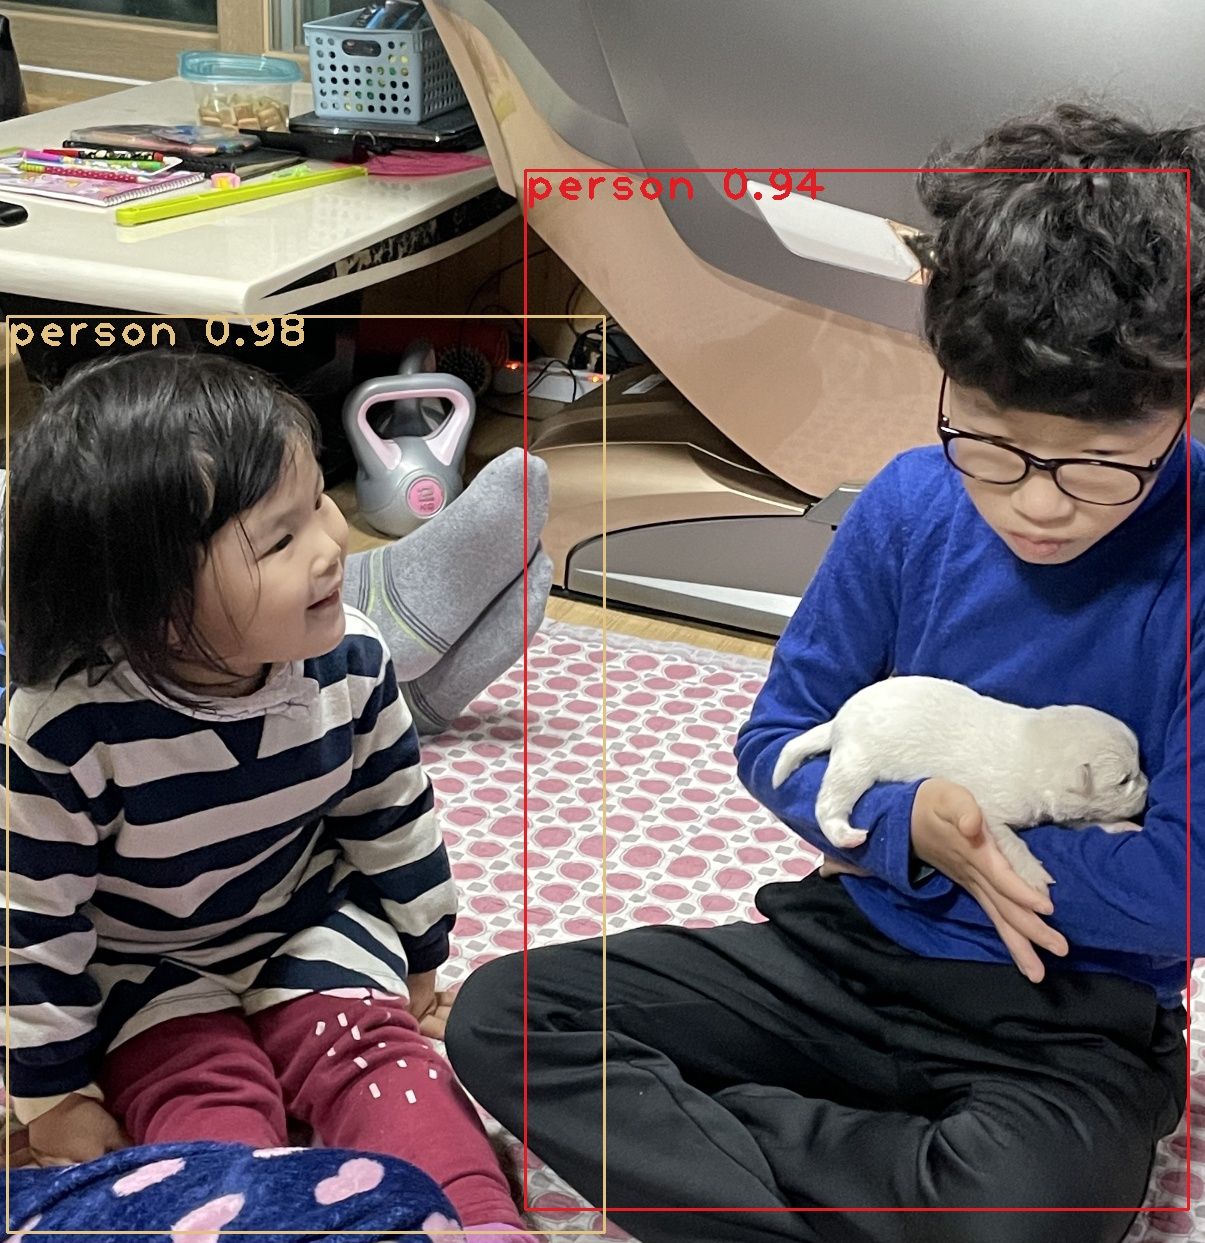
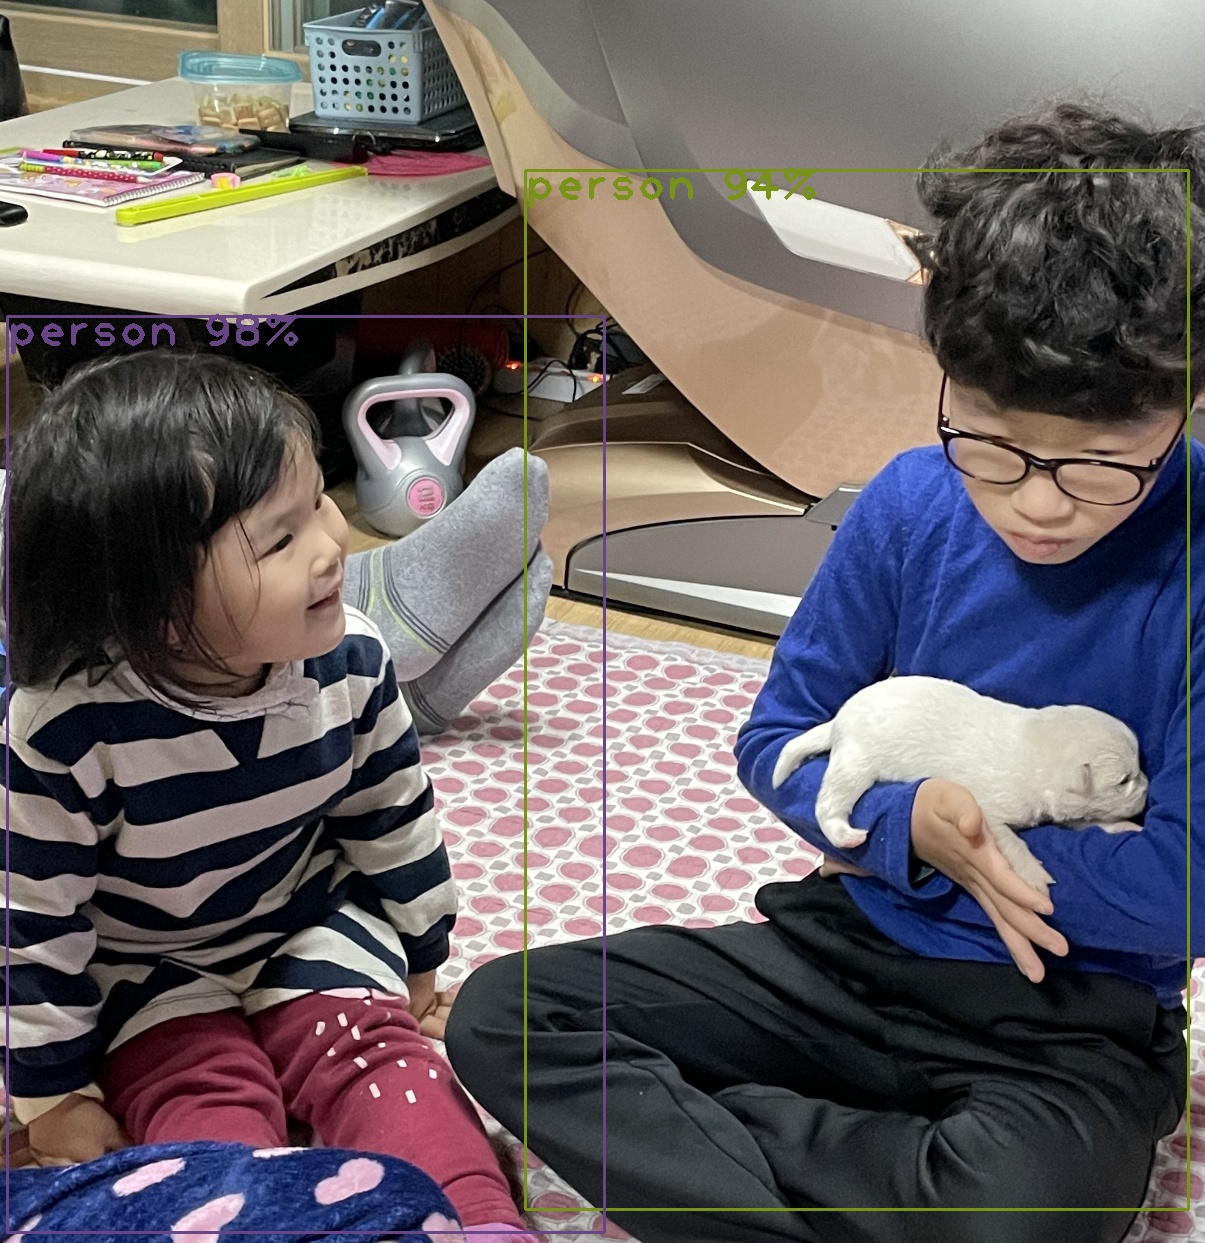
upload

Changed region(s): [[0.0, 0.1223, 1.0, 1.0], [0.3071, 0.2446, 0.3685, 0.2751]]

diff --git a/python/yolo/app.py b/python/yolo/app.py
@@ -51,7 +51,7 @@ def predict_yolo(imgName):
     for i in range(len(boxes)):
         if i in indexes:
             x, y, w, h = boxes[i]
-            confidence = str(round(confidences[i],2))
+            confidence = str(int(round(confidences[i],2) * 100)) + "%"
             label = str(classes[class_ids[i]]) + " " + confidence
             color = colors[i]
             cv2.rectangle(img, (x, y), (x + w, y + h), color, 2)

diff --git a/python/yolo_fastapi/app.py b/python/yolo_fastapi/app.py
@@ -52,7 +52,7 @@ def predict_yolo(imgName):
     for i in range(len(boxes)):
         if i in indexes:
             x, y, w, h = boxes[i]
-            confidence = str(round(confidences[i],2))
+            confidence = str(int(round(confidences[i],2) * 100)) + "%"
             label = str(classes[class_ids[i]]) + " " + confidence
             color = colors[i]
             cv2.rectangle(img, (x, y), (x + w, y + h), color, 2)
